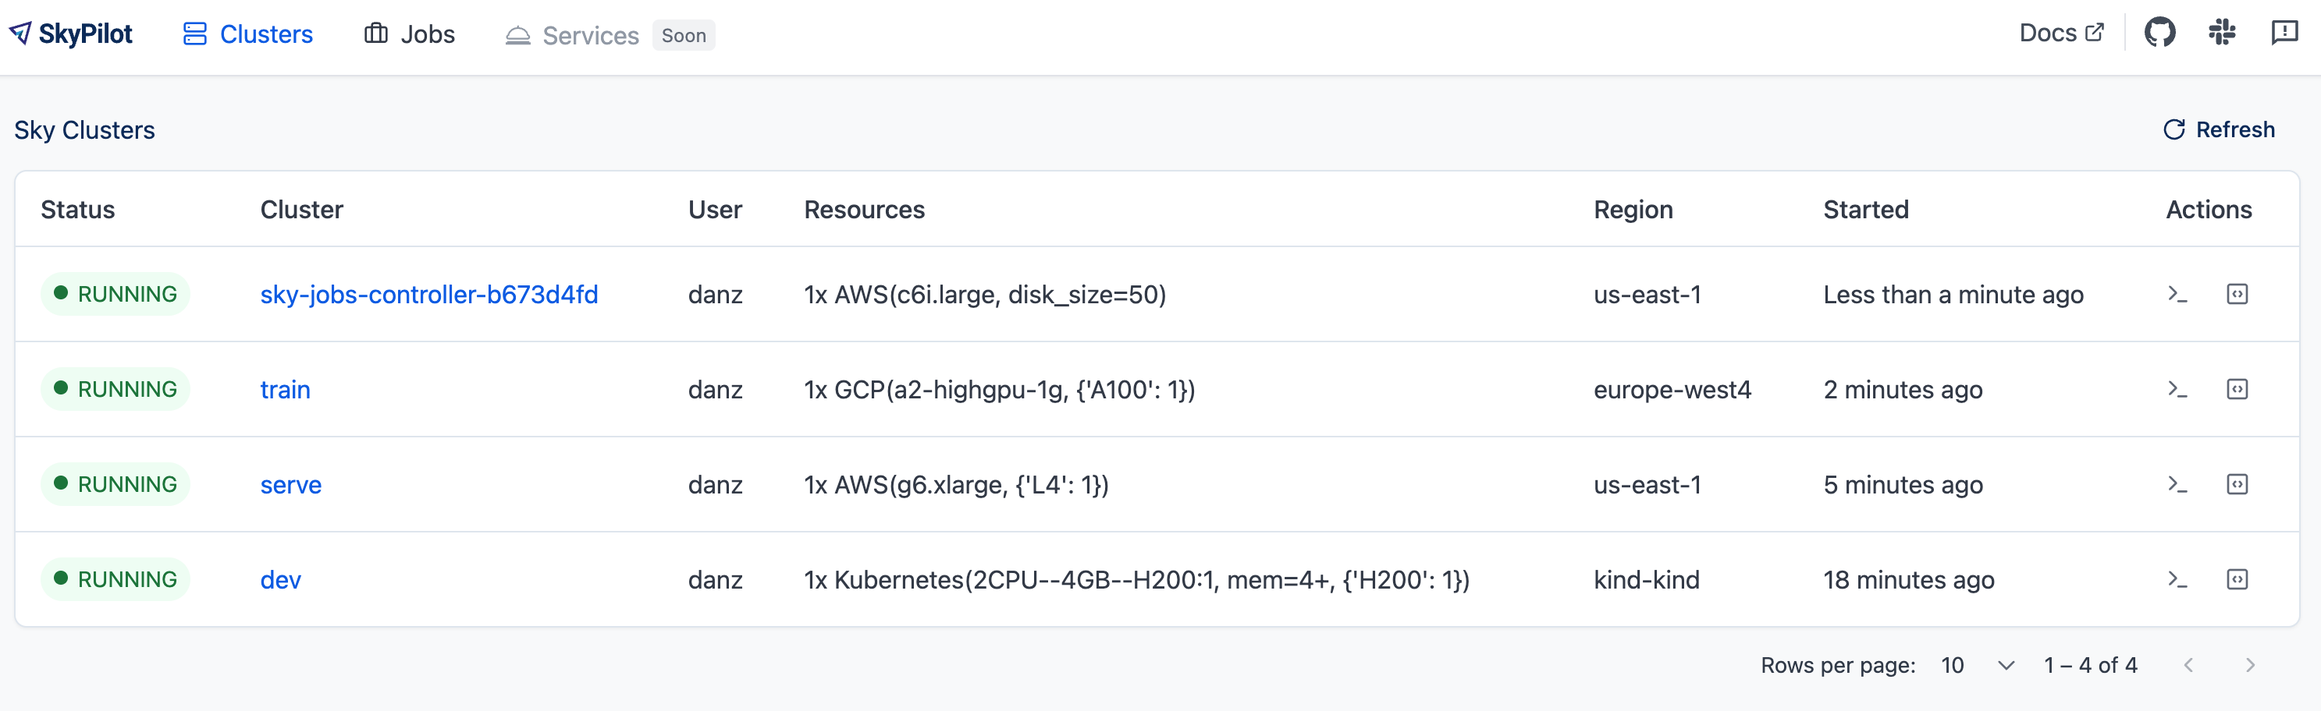
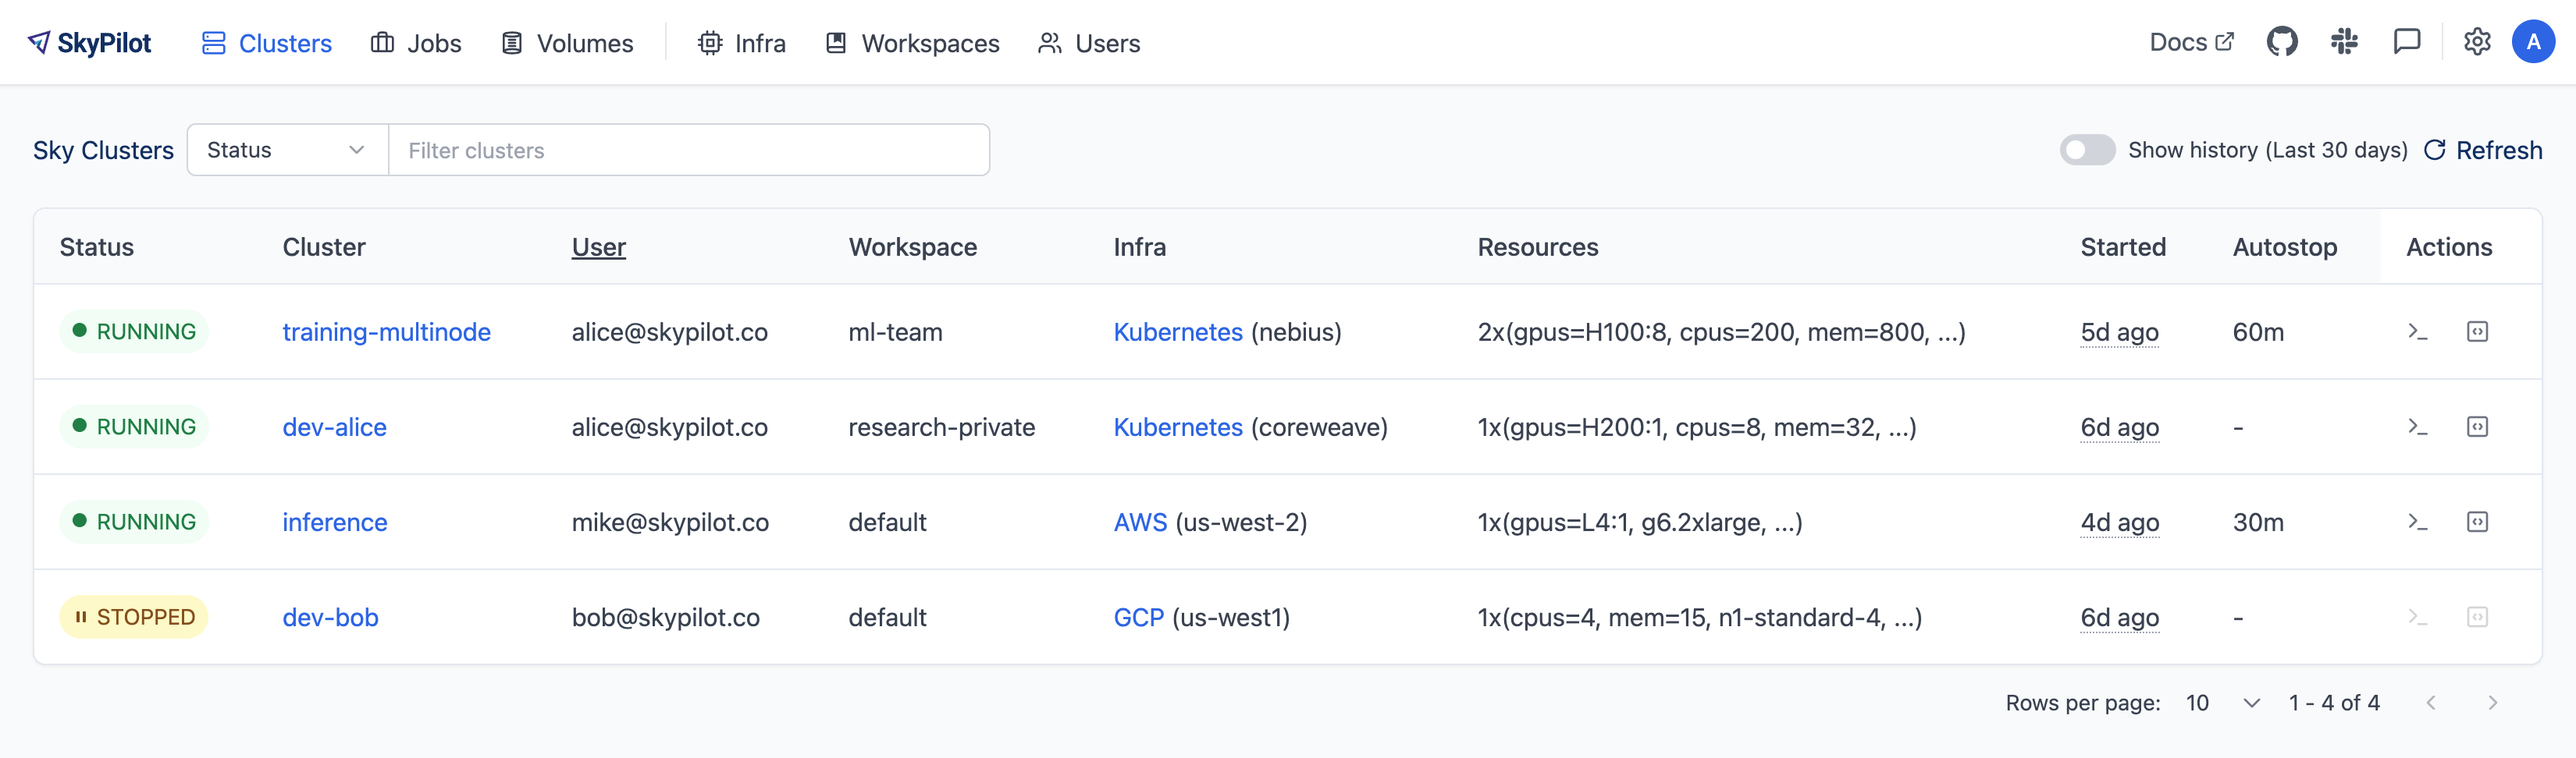
Update k8s docs + screenshots

diff --git a/docs/source/reference/kubernetes/kubernetes-getting-started.rst b/docs/source/reference/kubernetes/kubernetes-getting-started.rst
@@ -142,32 +142,26 @@ Once your cluster administrator has :ref:`setup a Kubernetes cluster <kubernetes
 Viewing cluster status
 ----------------------
 
-To view the status of all SkyPilot resources in the Kubernetes cluster, run :code:`sky status --k8s`.
-
-Unlike :code:`sky status` which lists only the SkyPilot resources launched by the current user,
-:code:`sky status --k8s` lists all SkyPilot resources in the Kubernetes cluster across all users.
+To view the status of your SkyPilot clusters, use :code:`sky status`:
 
 .. code-block:: console
 
-    $ sky status --k8s
-    Kubernetes cluster state (context: mycluster)
-    SkyPilot clusters
-    USER     NAME                           LAUNCHED    INFRA      RESOURCES                 STATUS
-    alice    infer-svc-1                    23 hrs ago  Kubernetes 1x(gpus=L4:1, ...)        UP
-    alice    sky-jobs-controller-80b50983   2 days ago  Kubernetes 1x(cpus=4, mem=4, ...)    UP
-    alice    sky-serve-controller-80b50983  23 hrs ago  Kubernetes 1x(cpus=4, mem=4, ...)    UP
-    bob      dev                            1 day ago   Kubernetes 1x(gpus=H100:1, ...)      UP
-    bob      multinode-dev                  1 day ago   Kubernetes 2x(cpus=2, mem=2, ...)    UP
-    bob      sky-jobs-controller-2ea485ea   2 days ago  Kubernetes 1x(cpus=4, mem=4, ...)    UP
+    $ sky status
+    Clusters
+    NAME       WORKSPACE  INFRA                      RESOURCES                    STATUS  AUTOSTOP  LAUNCHED
+    mycluster  prod       Kubernetes (k8s-context1)  1x(cpus=2, mem=4, ...)       UP      -         10 mins ago
+    dev        ml-team    Kubernetes (k8s-context2)  1x(gpus=H100:1, cpus=4, ...) UP      10m       1 hr ago
 
-    Managed jobs
-    In progress tasks: 1 STARTING
-    USER     ID  TASK  NAME      REQUESTED   SUBMITTED   TOT. DURATION  JOB DURATION  #RECOVERIES  STATUS
-    alice    1   -     eval      1x[CPU:1+]  2 days ago  49s            8s            0            SUCCEEDED
-    bob      4   -     pretrain  1x[H100:4]  1 day ago   1h 1m 11s      1h 14s        0            SUCCEEDED
-    bob      3   -     bigjob    1x[CPU:16]  1 day ago   1d 21h 11m 4s  -             0            STARTING
-    bob      2   -     failjob   1x[CPU:1+]  1 day ago   54s            9s            0            FAILED
-    bob      1   -     shortjob  1x[CPU:1+]  2 days ago  1h 1m 19s      1h 16s        0            SUCCEEDED
+When connected to a shared :ref:`SkyPilot API server <sky-api-server>`, you can view resources from all users with :code:`sky status -u`:
+
+.. code-block:: console
+
+    $ sky status -u
+    Clusters
+    NAME       USER              WORKSPACE  INFRA                      RESOURCES                            STATUS  AUTOSTOP  LAUNCHED
+    mycluster  alice@example.com prod       Kubernetes (k8s-context1)  1x(cpus=2, mem=4, ...)               UP      -         10 mins ago
+    dev        alice@example.com ml-team    Kubernetes (k8s-context2)  1x(gpus=H100:1, cpus=4, mem=16, ...) UP      10m       1 hr ago
+    training   bob@example.com   ml-team    Kubernetes (k8s-context1)  1x(gpus=L4:4, cpus=8, mem=32, ...)   UP      -         2 hrs ago
 
 You can also inspect the real-time GPU usage on the cluster with :code:`sky show-gpus --infra k8s`.
 

diff --git a/docs/source/reference/kubernetes/kubernetes-setup.rst b/docs/source/reference/kubernetes/kubernetes-setup.rst
@@ -394,33 +394,27 @@ Below, we provide tips on how to monitor SkyPilot resources on your Kubernetes c
 List SkyPilot resources across all users
 ^^^^^^^^^^^^^^^^^^^^^^^^^^^^^^^^^^^^^^^^
 
-We provide a convenience command, :code:`sky status --k8s`, to view the status of all SkyPilot resources in the cluster.
+When using the :ref:`SkyPilot API server <sky-api-server>`, you can use the :ref:`SkyPilot dashboard <dashboard>` to view SkyPilot resources across all users:
 
-Unlike :code:`sky status` which lists only the SkyPilot resources launched by the current user,
-:code:`sky status --k8s` lists all SkyPilot resources in the cluster across all users.
+
+.. image:: ../../images/dashboard-clusters.png
+    :width: 100%
+    :align: center
+    :alt: SkyPilot Dashboard
+
+|
+
+Or run :code:`sky status -u`:
 
 .. code-block:: console
 
-    $ sky status --k8s
-    Kubernetes cluster state (context: mycluster)
-    SkyPilot clusters
-    USER     NAME                           LAUNCHED    RESOURCES                                  STATUS
-    alice    infer-svc-1                    23 hrs ago  1x Kubernetes(cpus=1, mem=1, {'L4': 1})    UP
-    alice    sky-jobs-controller-80b50983   2 days ago  1x Kubernetes(cpus=4, mem=4)               UP
-    alice    sky-serve-controller-80b50983  23 hrs ago  1x Kubernetes(cpus=4, mem=4)               UP
-    bob      dev                            1 day ago   1x Kubernetes(cpus=2, mem=8, {'H100': 1})  UP
-    bob      multinode-dev                  1 day ago   2x Kubernetes(cpus=2, mem=2)               UP
-    bob      sky-jobs-controller-2ea485ea   2 days ago  1x Kubernetes(cpus=4, mem=4)               UP
-
-    Managed jobs
-    In progress tasks: 1 STARTING
-    USER     ID  TASK  NAME      RESOURCES   SUBMITTED   TOT. DURATION  JOB DURATION  #RECOVERIES  STATUS
-    alice    1   -     eval      1x[CPU:1+]  2 days ago  49s            8s            0            SUCCEEDED
-    bob      4   -     pretrain  1x[H100:4]  1 day ago   1h 1m 11s      1h 14s        0            SUCCEEDED
-    bob      3   -     bigjob    1x[CPU:16]  1 day ago   1d 21h 11m 4s  -             0            STARTING
-    bob      2   -     failjob   1x[CPU:1+]  1 day ago   54s            9s            0            FAILED
-    bob      1   -     shortjob  1x[CPU:1+]  2 days ago  1h 1m 19s      1h 16s        0            SUCCEEDED
-
+    $ sky status -u
+    Clusters
+    NAME                USER               WORKSPACE         INFRA                   RESOURCES                                   STATUS   AUTOSTOP  LAUNCHED
+    training-multinode  alice@skypilot.co  ml-team           Kubernetes (nebius)     2x(gpus=H100:8, cpus=200, mem=800, ...)     RUNNING  60m       5d ago
+    dev-alice           alice@skypilot.co  research-private  Kubernetes (coreweave)  1x(gpus=H200:1, cpus=8, mem=32, ...)        RUNNING  -         6d ago
+    inference           mike@skypilot.co   default           AWS (us-west-2)         1x(gpus=L4:1, g6.2xlarge, ...)              RUNNING  30m       4d ago
+    dev-bob             bob@skypilot.co    default           GCP (us-west1)          1x(cpus=4, mem=15, n1-standard-4, ...)      STOPPED  -         6d ago
 
 .. _kubernetes-observability-dashboard:
 
